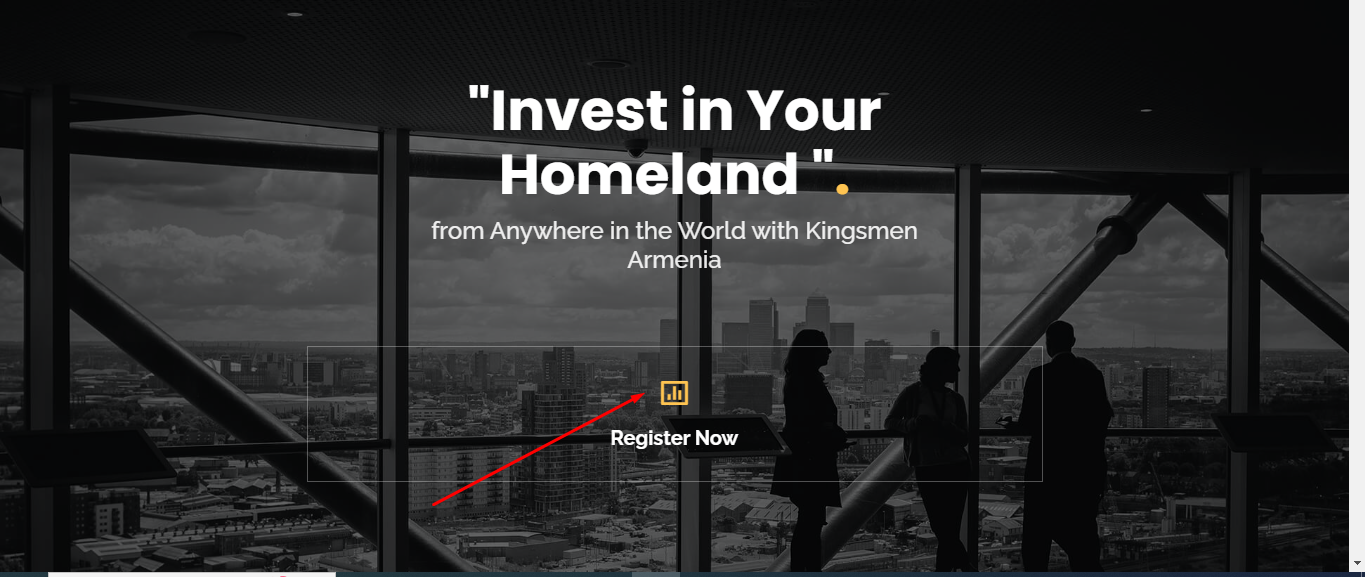
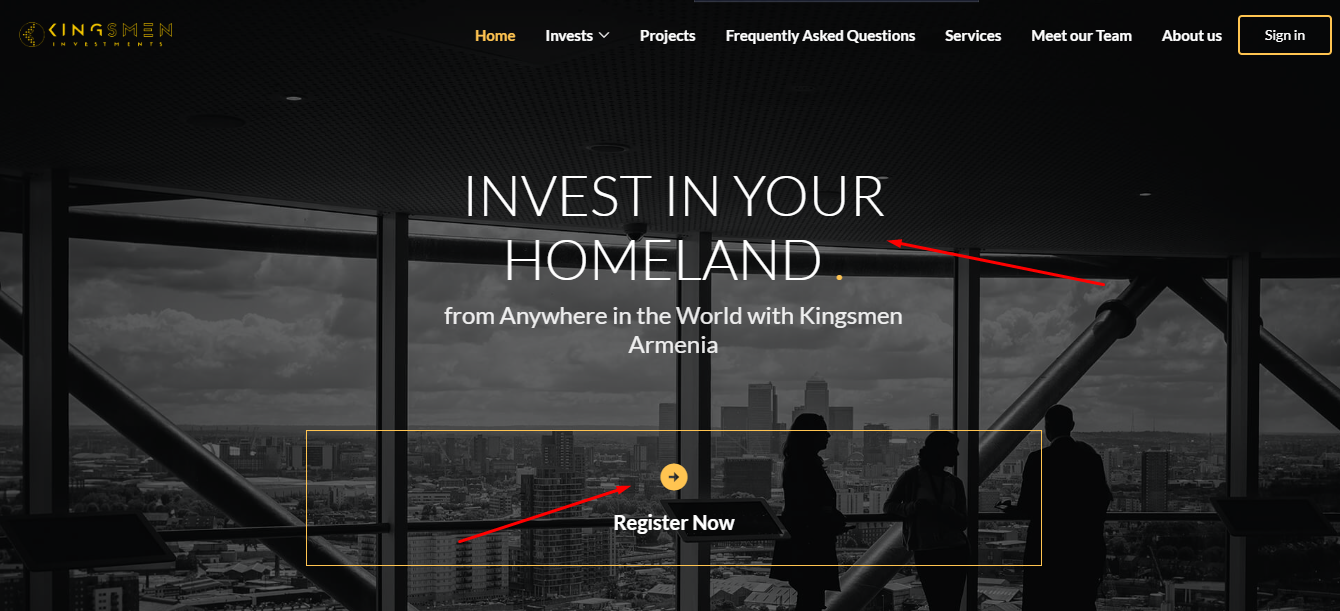
some revision added

diff --git a/index.html b/index.html
@@ -100,14 +100,25 @@
 
 
   <main id="main">
-    <h1 class="my-5 p-3  text-dark bg-white text-center">WELCOME TO THE ONLINE WORLD OF KINGSMEN </h1>
-    <!-- ======= About Section ======= -->
+    <!-- video section -->
+    <section id="video">
+        <div class="container" data-aos="fade-up">
+          <h1 class="p-3 my-2  text-dark bg-white text-center">WELCOME TO THE ONLINE WORLD OF KINGSMEN </h1>
+          <div class="m-0  text-center my-5 ratio ratio-21x9">
+            <iframe width="310" height="215" src="https://www.youtube.com/embed/iTbRMCyvy_E"
+              title="YouTube video player" frameborder="0"
+              allow="accelerometer; autoplay; clipboard-write; encrypted-media; gyroscope; picture-in-picture; web-share"
+              allowfullscreen></iframe>
+          </div>
+        </div>
+    </section>
+     <!-- ======= About Section ======= -->
     <section id="about" class="about bg-dark">
      <div class="container" data-aos="fade-up">
       <div class="row text-white d-flex align-items-center justify-content-center">
-          <div class="col-lg-12 pt-4 pt-lg-0 order-2 order-lg-1 content" data-aos="fade-right" data-aos-delay="100">
-            <h3>At Kingsmen Investments, we offer a variety of investment opportunities that can both start your journey and grow alongside you. </h3>
-            <p class="fst-italic">
+          <div class="col-lg-12 pt-4 pt-lg-0 order-2 order-lg-1 content lato-font-family" data-aos="fade-right" data-aos-delay="100">
+            <h3 class="fw-normal">At Kingsmen Investments, we offer a variety of investment opportunities that can both start your journey and grow alongside you. </h3>
+            <p class="">
               Investor Portal provides secure and reliable access to track projects' progress and manage financial investments, giving you the insight and analytics needed to ensure the project remains successful.
             </p>
             <ul>
@@ -117,8 +128,8 @@
                 So come join us at Kingsmen Investments and let us help you reach your dreams and financial goals today !</li>
             </ul>
            <h5 class="fw-bolder" > Angelo Hani </h5>
-           <h5 class="text-muted" > C.E.O  </h5>
-           <h6> Kingsmen Investments</h6>
+           <h5 class=" fw-light" > C.E.O  </h5>
+           <h6 class=" fw-light" > Kingsmen Investments</h6>
           </div>
         </div>
 

diff --git a/invests/crowdfunding/one-tree-armenia.html b/invests/crowdfunding/one-tree-armenia.html
@@ -472,20 +472,16 @@
             the Chance Login and invest Today! </h4>
         </div>
       </section>
-      <section class="">
-        <div class="container-fluid">
-          <div class="row  row-cols-auto row-cols-lg-3 row-cols-md-3 d-flex justify-content-center align-items-center">
-            <div> </div>
-            <div class="m-0">
-              <iframe width="310" height="215" src="https://www.youtube.com/embed/iTbRMCyvy_E"
-                title="YouTube video player" frameborder="0"
-                allow="accelerometer; autoplay; clipboard-write; encrypted-media; gyroscope; picture-in-picture; web-share"
-                allowfullscreen></iframe>
-            </div>
-            <div> </div>
+    <section id="video">
+        <div class="container" data-aos="fade-up">
+          <div class="m-0  text-center my-5 ratio ratio-21x9">
+            <iframe width="310" height="215" src="https://www.youtube.com/embed/iTbRMCyvy_E"
+              title="YouTube video player" frameborder="0"
+              allow="accelerometer; autoplay; clipboard-write; encrypted-media; gyroscope; picture-in-picture; web-share"
+              allowfullscreen></iframe>
           </div>
         </div>
-      </section>
+    </section>
       <section id="timeline summary" class="m-0 p-0">
         <div class="container-fluid">
           <div class="row ">

diff --git a/faq.html b/faq.html
@@ -97,7 +97,17 @@
 
 
 <main id="main">
-
+    <!-- video section -->
+    <section id="video">
+      <div class="container" data-aos="fade-up">
+        <div class="m-0  text-center my-5 ratio ratio-21x9">
+          <iframe width="310" height="215" src="https://www.youtube.com/embed/iTbRMCyvy_E"
+            title="YouTube video player" frameborder="0"
+            allow="accelerometer; autoplay; clipboard-write; encrypted-media; gyroscope; picture-in-picture; web-share"
+            allowfullscreen></iframe>
+        </div>
+      </div>
+  </section>
     <!-- ======= faq ======= -->
                   <section class="faq-container">
                       <div class="faq-one">

diff --git a/assets/css/style.css b/assets/css/style.css
@@ -27,6 +27,10 @@ a:hover {
   text-decoration: none;
 }
 
+.lato-font-family{
+  font-family: "lato";
+}
+
 h1,
 h2,
 h3,
@@ -1695,4 +1699,20 @@ margin: auto;
     outline: none !important;
     padding: 25px;
     color: #fff;
+}
+
+
+/* crowdfunding code */
+#hero-crowdfunding h1{
+  margin: 0;
+  font-size: 56px;
+  font-weight: 300;
+  text-transform: uppercase;
+  line-height: 64px;
+  color: #fff;
+  font-family: "lato", sans-serif;
+}
+
+#hero-crowdfunding span{
+  color: #ffc451;
 }

diff --git a/invests/crowdfunding/crowdfunding.html b/invests/crowdfunding/crowdfunding.html
@@ -80,7 +80,7 @@
     <div class="container" data-aos="fade-up">
       <div class="row justify-content-center" data-aos="fade-up" data-aos-delay="150">
         <div class="col-xl-6 col-lg-8 col-8">
-          <h1 class="text-white bi-file-word-fill" style="">	           	
+          <h1 class="text-white" style="">	           	
 Crowdfunding<span>.</span></h1>
         </div>
       </div>
